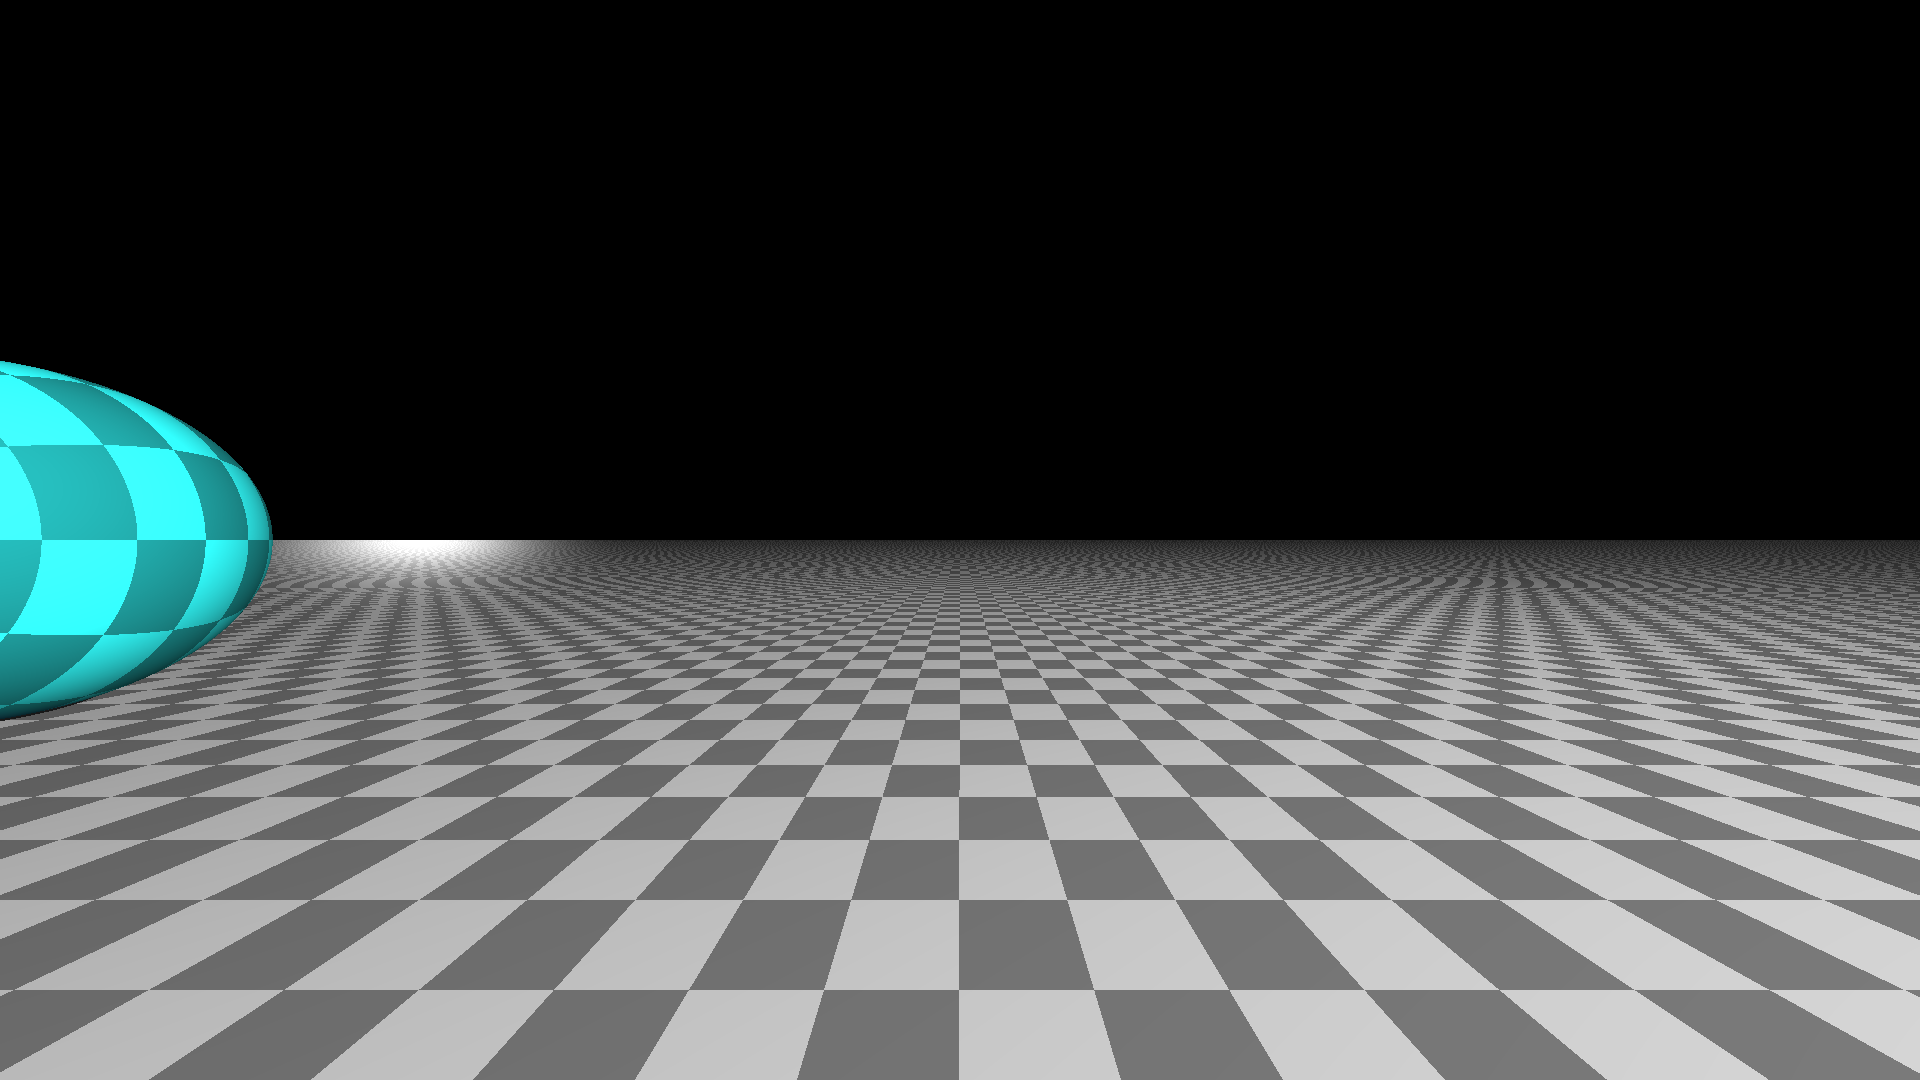
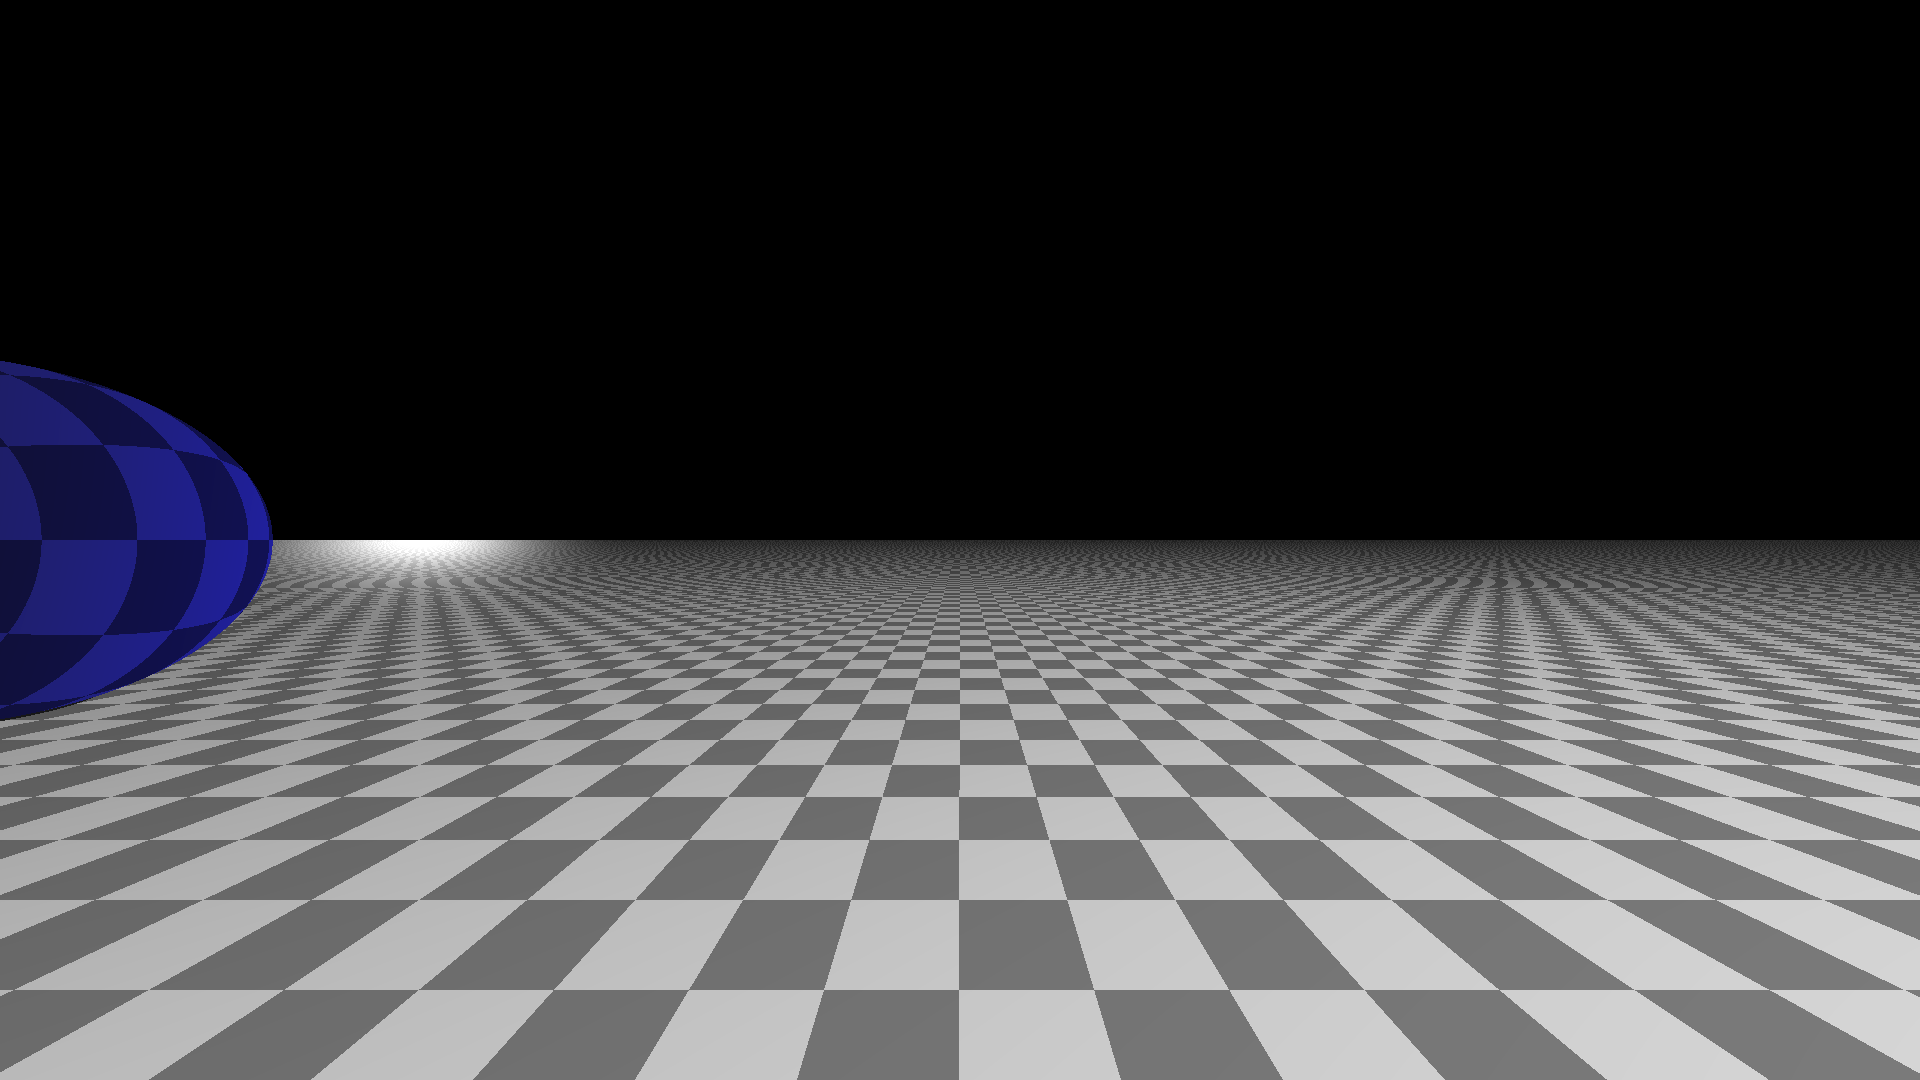
update Doppler and headlight
之前那个算法有问题... 改了下

Changed region(s): [[0.0, 0.3361, 0.1562, 0.6722]]

diff --git a/my_raytracer.py b/my_raytracer.py
@@ -277,17 +277,17 @@ class MovingObject:
     def get_color(self, objs, intersection_ether, diffuse_color, Origin, light_pos, Norm= None):#starts_obj, directions_obj, travel_times_obj):
         # M 交点  N 法向量  物体参考系下
         M= intersection_ether
-        light= light_pos.vec4(intersection_ether.t - (light_pos - intersection_ether).norm())
-        MtoL= light - M
-        MtoO= intersection_ether - Origin
+        L= light_pos.vec4(intersection_ether.t - (light_pos - intersection_ether).norm())
+        ML= L - M
+        OM= intersection_ether - Origin
         #N= self.shape.get_norm(self.transform_point_from_ether(M).vec3())
         #nudged = M + N * .0001
 
         if self.material:
             
             # Shadowing: 确认从光源发出，打中这一点的光线是否经过其他物体
-            intersections_and_color= [obj.get_intersection_and_color(light, - MtoL, inverted_trace= False) for obj in objs] # 交点（以太坐标）, 漫反射颜色
-            distances= [(inter_ether - light).t for inter_ether, color in intersections_and_color]
+            intersections_and_color= [obj.get_intersection_and_color(L, - ML, inverted_trace= False) for obj in objs] # 交点（以太坐标）, 漫反射颜色
+            distances= [(inter_ether - L).t for inter_ether, color in intersections_and_color]
             distances= [np.where(np.isnan(d), FARAWAY, d) for d in distances]# 交点距离
             nearest = reduce(np.minimum, distances)
             #seelight= abs(nearest - (light_pos - intersection_ether).norm()) < 0.001
@@ -298,14 +298,14 @@ class MovingObject:
 
             # Lambert shading (diffuse)
             N_obj= self.shape.get_norm(self.transform_point_from_ether(intersection_ether).vec3()) if (Norm is None) else Norm
-            MtoL_obj= self.transform_point_from_ether(MtoL).vec3().normalize()
-            lv = np.maximum(N_obj.dot(MtoL_obj), 0)
+            ML_obj= self.transform_point_from_ether(ML).vec3().normalize()
+            lv = np.maximum(N_obj.dot(ML_obj), 0)
             color += diffuse_color * lv * np.where(seelight,1,self.material.shadow)
             
             # Blinn-Phong shading (specular)
             if self.material.gloss:
-                MtoO_obj= self.transform_point_from_ether(MtoO).vec3().normalize()
-                phong = N_obj.dot((MtoL_obj + MtoO_obj).normalize())
+                OM_obj= self.transform_point_from_ether(OM).vec3().normalize()
+                phong = N_obj.dot((ML_obj + OM_obj).normalize())
                 color += rgb(1, 1, 1) * np.power(np.clip(phong, 0, 1), self.material.gloss/4) * seelight
 
             # Combination  纯个人审美，我觉得整体提高亮度不至于太黑会更好看
@@ -313,21 +313,20 @@ class MovingObject:
         else:
             color= diffuse_color# * np.where(seelight,1,0.2)
         
-        # HeadLight Effect
-        x0=(-MtoO-light).vec3()
-        ucosθ1= self.v.dot(x0)/np.sqrt(x0.dot(x0))
-        headlight_factor1= np.sqrt(1-self.v.dot(self.v))/(1 - ucosθ1 )
+        # HeadLight Effect & Doppler Effect
+        x01=(OM-L).vec3()
+        vcosθ1= self.v.dot(x01)/np.sqrt(x01.dot(x01))
+        Doppler_factor1= (1 - vcosθ1 )/np.sqrt(1-self.v.dot(self.v))
 
-        x00= MtoO.vec3()
-        ucosθ2= x00.dot(self.v)/np.sqrt(x00.dot(x00))
-        headlight_factor2= np.sqrt(1-self.v.dot(self.v))/(1 + ucosθ2 )
-        headlight_factor= headlight_factor1 * headlight_factor2
+        x02= OM.vec3()
+        vcosθ2= x02.dot(self.v)/np.sqrt(x02.dot(x02))
+        Doppler_factor2= np.sqrt(1-self.v.dot(self.v))/(1 + vcosθ2 )
+        
+        Doppler_factor= Doppler_factor1 * Doppler_factor2
+        Headlight_factor= Doppler_factor#, 3)
 
-        color= color * headlight_factor
-
-        # Doppler Effect
-        doppler_factor= headlight_factor
-        color= color.Doppler(doppler_factor)
+        color= color.Doppler(Doppler_factor)
+        color= color * Headlight_factor
         
         return color
 
@@ -374,7 +373,7 @@ def raytrace(starts_ether: vec4, directions_ether: vec4, objs, light_pos):
     return color
 
 class Camera:
-    def __init__(self, center= ORIGIN, definition= DEFAUT_DEFINITION, camera_height= DEFAUT_CAMERA_HEIGHT, focal_length= DEFAUT_FOCAL_LENGTH, fps= 60):
+    def __init__(self, definition= DEFAUT_DEFINITION, center= ORIGIN, camera_height= DEFAUT_CAMERA_HEIGHT, focal_length= DEFAUT_FOCAL_LENGTH, fps= 60):
         width, height= definition
         resolution= height/width
         camera_width= camera_height/resolution
@@ -407,13 +406,12 @@ class Camera:
         start= self.center + vec4(shot_time, 0, 0, 0)
 
         return start, self.direction
+PR= Camera(LOW_DEFINITION)
+HD= Camera(HIGH_DEFINITION)
 
 class Scene:
-    def __init__(self, movingobjects, camera= None, light_pos= DEFAUT_LIGHT_POS):
-        if camera is None:
-            camera= Camera()
+    def __init__(self, movingobjects, light_pos= DEFAUT_LIGHT_POS):
         self.movingobjects= movingobjects
-        self.camera= camera
         self.light_pos= light_pos
 
     def add_object(self, movingobject: MovingObject):
@@ -423,23 +421,27 @@ class Scene:
         self.movingobjects= []
     
     @timeit
-    def generate_image(self, shot_time= 0, file_name= 'image.png'):
+    def generate_image(self, shot_time= 0, camera= None, file_name= 'image.png'):
+        if camera is None:
+            camera= Camera()
 
-        start, direction= self.camera.get_rays(shot_time)
+        start, direction= camera.get_rays(shot_time)
 
-        color= self.camera.bg + raytrace(start, direction, self.movingobjects, self.light_pos)
+        color= camera.bg + raytrace(start, direction, self.movingobjects, self.light_pos)
 
-        file_color = [Image.fromarray((255 * np.clip(c, 0, 1).reshape((self.camera.height, self.camera.width))).astype(np.uint8), "L") for c in color.components()]
+        file_color = [Image.fromarray((255 * np.clip(c, 0, 1).reshape((camera.height, camera.width))).astype(np.uint8), "L") for c in color.components()]
         Image.merge("RGB", file_color).save(file_name)
 
         return file_name
     
-    def generate_animation(self, t_start, t_end, frames= 300, Dir= './render', video_name= 'render.avi'): # 输出png序列
+    def generate_animation(self, t_start, t_end, frames= 300, Dir= './render', camera= None): # 输出png序列
+        if camera is None:
+            camera= Camera()
         t00= time.time()
         if not os.path.exists(Dir):
             os.mkdir(Dir)
         for shot_time, frame_count in np.linspace([t_start,1],[t_end,frames], frames):
             print('开始渲染第%s帧...' % int(frame_count), end= '')
-            self.generate_image(shot_time, os.path.join(Dir, f"{int(frame_count)}.png"))
+            self.generate_image(shot_time, camera, os.path.join(Dir, f"{int(frame_count)}.png"))
             t1= time.time()
             print("预计剩余%i分钟" % ((t1-t00)/frame_count*(frames-frame_count)/60) )

diff --git a/example_animation.py b/example_animation.py
@@ -4,7 +4,7 @@ from my_raytracer import *
 shape1= Sphere(.5, get_checkerboard_color_func(WHITE, GRAY))
 #shape1= Cube(1,1,1, get_cubical_checkerboard_color_func(RED_E, WHITE, .1))
 shape2= Plane(vec3(0,0,0), vec3(0,1,0), diffuse_color_function= get_cubical_checkerboard_color_func(GREY, WHITE, .15))
-beta1 = (0.3, 0, 0)
+beta1 = (0.5, 0, 0)
 beta2 = (0, 0, 0)
 offset1 = vec4(0, 0, 0, 1.5)
 offset2 = vec4(0, 0, -.5, 0)
@@ -14,7 +14,7 @@ object2= MovingObject(shape2, beta2, offset2)
 movingobjects= [object1, object2]
 
 scene= Scene(movingobjects)
-scene.generate_animation(-6, 5, 10, 'render1')
+scene.generate_animation(-4, 9, 100, 'render2', PR)
 
 #frames= 10
 #t00= time.time()

diff --git a/util.py b/util.py
@@ -239,7 +239,7 @@ DEFAUT_CAMERA_HEIGHT= 200
 DEFAUT_FOCAL_LENGTH= 200
 ORIGIN= vec4(0, 0, 0, 0)
 DEFAUT_LIGHT_POS= vec3(2, 2, -2)# 默认光源位置
-LOW_DEFINITION= (533.3, 300)
+LOW_DEFINITION= (533, 300)
 DEFAUT_DEFINITION= (1920, 1080)
 HIGH_DEFINITION= (4096, 3112)
 DEFAULT_OBJ_COLOR = rgb(1,1,1)
